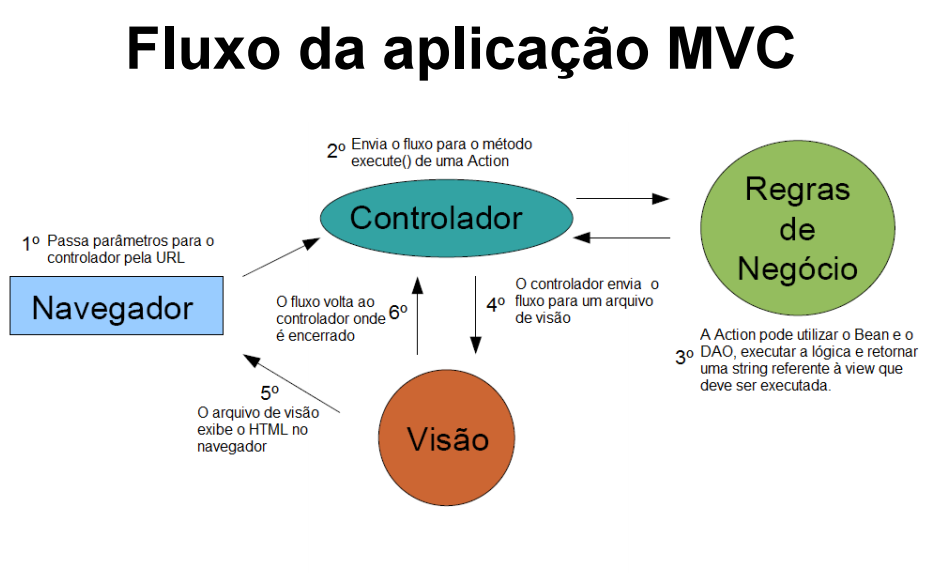
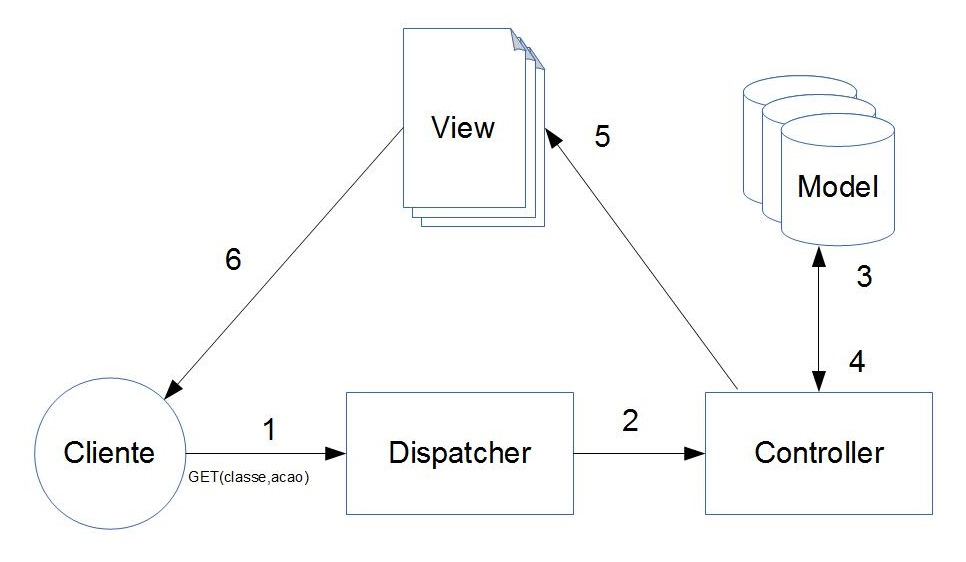
Novo Modelo MVC
Usando Dispatcher e sem Actions.

diff --git a/index.html b/index.html
@@ -9,7 +9,7 @@
 <script>
     $(document).ready(function() {
         $("#bt_produto").click(function(){
-            $("#div_produtos").load("Controller/ControllerProduto.php?acao=Listar");
+            $("#div_produtos").load("Controller/Dispatcher.php?classe=Produto&acao=listar");
         });
 
     });

diff --git a/Controller/ControllerProduto.php b/Controller/ControllerProduto.php
@@ -1,24 +1,46 @@
 <?php
 
-require_once("includes/Conexao.php");
-require_once("../Model/Bean/Protudo.php");
-require_once("../Model/DAO/ProdutoDAO.php");
+/*
+ *@description Controlador de Produtos
+ * @author Luis Araujo
+ * @version 1.0
+ */
 
-//$module = $_GET['module'];
-$acao = $_GET['acao'];
+class ControllerProduto {
 
-//$url = $_GET['module']. "/action/" .$_GET['acao']. ".php";
-$url = "../Model/Action/" .$_GET['acao']. ".php";
+    private $view;
+    private  $objView;
+    private  $urlDAO;
+    private  $urlClass;
 
+    public function  __construct(){
+        //Url Class
+        $this->urlClass = "../Model/Bean/Produto.php";
+        require_once($this->urlClass);
 
-require_once($url);
+        //Url View
+        $this->view = "../View/ViewProduto.php";
+        require_once($this->view);
 
-$acao = new $_GET[ 'acao'];
-$retorno = $acao->execute();
+        //Url DAO
+        $this->urlDAO = "../Model/DAO/ProdutoDAO.php";
+        require_once($this->urlDAO);
 
-//$view = $_GET['module']. "/View/frm" .$_GET['acao']. ".php";
-$view = "../View/frm" .$_GET['acao']. ".php";
+        //Instaciando o objeto View
+        $this->objView = new ViewProduto();
+    }
 
-require_once($view);
+    public function listar(){
 
-?>
+        Conexao::conectar();
+
+        $produtoDao = new ProdutoDAO();
+        $lista = $produtoDao->listarTudo();
+
+        $_REQUEST["lista"] = $lista;
+
+        $this->objView->listarTudo();
+
+    }
+
+} 

diff --git a/Controller/Dispatcher.php b/Controller/Dispatcher.php
@@ -1,0 +1,23 @@
+<?php
+/*
+ * @description Responsável por requisitar o Controller e a chamada do métodos específicao passado via GET
+ * @author Luis Araujo
+ * @version 1.0
+ */
+require_once("includes/Conexao.php");
+
+$metodo = $_GET['acao'];
+$classe = $_GET['classe'];
+$controllercClasse = "Controller".$classe;
+
+//Url Controller
+$urlController = "../Controller/" .$controllercClasse. ".php";
+require_once($urlController);
+
+//Instancia o objeto do tipo
+$objController = new $controllercClasse();
+
+//Chamanda de método
+$lista = $objController->$metodo();
+
+?>

diff --git a/Model/Bean/Produto.php b/Model/Bean/Produto.php
@@ -1,0 +1,17 @@
+<?php
+/**
+ * Created by PhpStorm.
+ * User: Luis 4raujo
+ * Date: 23/08/15
+ * Time: 07:17
+ */
+
+class Protudo {
+
+    private $id;
+    private $nome;
+
+   public function setNome($nome){ $this->nome = $nome; }
+   public function getNome(){ return $this->nome; }
+
+} 

diff --git a/View/ViewProduto.php b/View/ViewProduto.php
@@ -1,0 +1,16 @@
+<?php
+
+class ViewProduto {
+
+   public function listarTudo(){
+        $lista = $_REQUEST["lista"];
+
+        foreach ($lista as $l){
+
+            echo utf8_encode ($l->getNome())."<br>";
+        }
+    }
+
+}
+?>
+

diff --git a/Model/DAO/ProdutoDAO.php b/Model/DAO/ProdutoDAO.php
@@ -21,7 +21,7 @@ class ProdutoDAO {
             return $l;
         }
 
-        return "erro_teste";
+        return;
     }
 
 

diff --git a/README.md b/README.md
@@ -1,24 +1,24 @@
 #DESENVOLVENDO EM 3 CAMADAS COMO PHP 5, MVC e AJAX
 
-> Modelo implementado por mim como base na apresentação de Almir Neto e Otávio Calaça no CONAPHP
+> Modelo modificado do exempleo apresentação de Almir Neto e Otávio Calaça no CONAPHP
 consultar aqui: http://pt.slideshare.net/otaviocx/desenvolvimento-em-trs-camadas-com-php-5-mvc-e-ajax-presentation
+Obs.: Esse modelo exclui o fluxo para os Actions, utilizando Dispactcher para encaminhar a requisição ao Controller
+específico.
 
 
-##Estrutura
+##Estrutura MVC
 
 * View
  - fmListar.php
 
 * Model
- - Action
-	 - Listar.php
  - Bean
 	 - Produto.php
  -DAO
    -ProdutoDAO
 
 * Controller
-
+ - Dispatcher
  - ControllerProduto.php
  - includes
 	 - autoload.php
